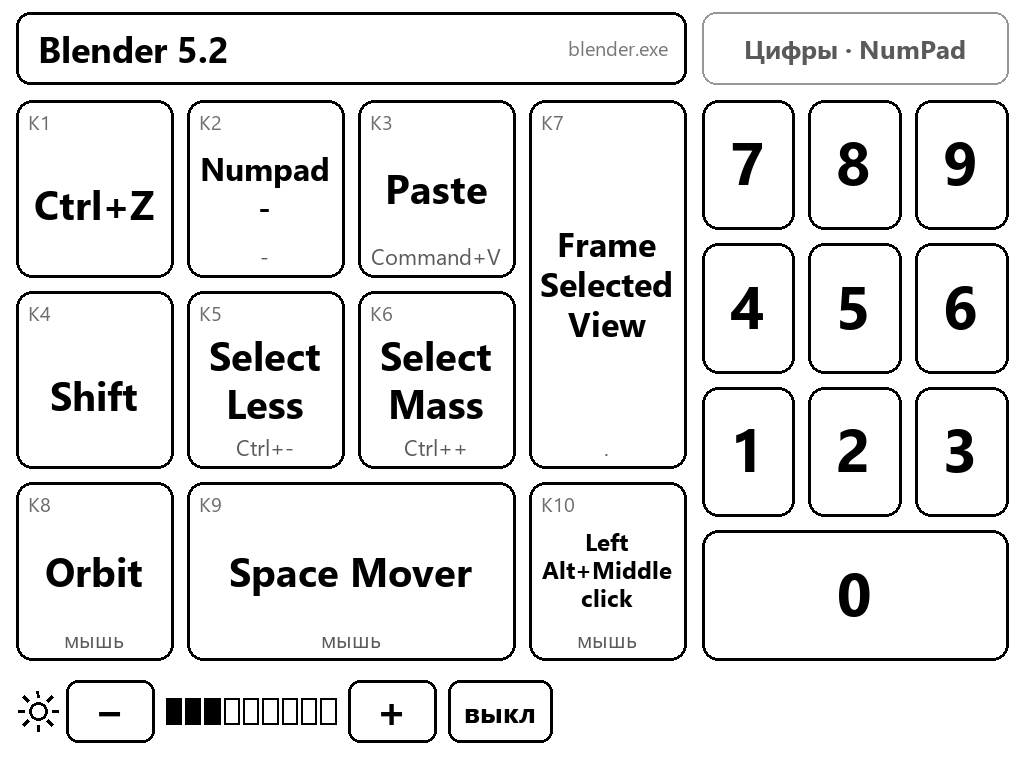
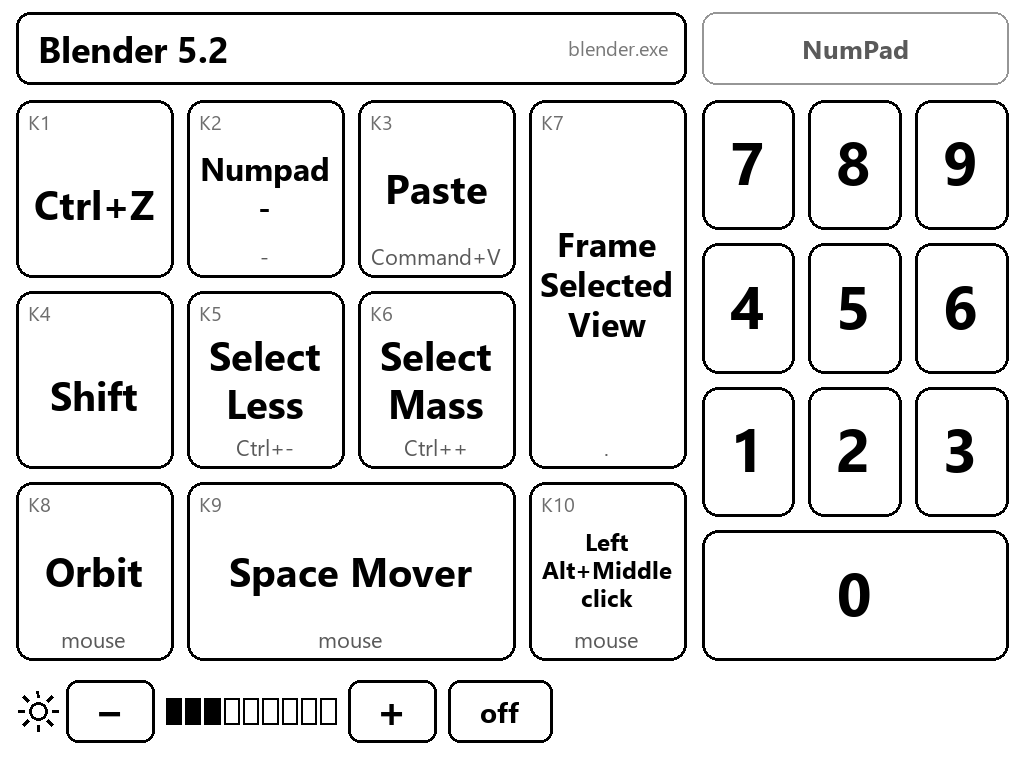
Translate the repository to English
README rewritten in English. On-screen labels are English too ("All apps",
"mouse", "driver function", "NumPad", "on"/"off"), as is the test image;
the README preview is regenerated.

diff --git a/xppen_kindle.py b/xppen_kindle.py
@@ -94,9 +94,9 @@ def _parse_key(node):
     if kind == "key":
         shortcut = _symbols(raw)
     elif kind == "mouse":
-        shortcut = "мышь"
+        shortcut = "mouse"
     elif kind == "func":
-        shortcut = "функция драйвера"
+        shortcut = "driver function"
     else:
         shortcut = "" if re.fullmatch(r"[\d+]*", raw) else _symbols(raw)
     return Key(kind, _symbols(label) if len(label) <= 2 else label, shortcut)
@@ -130,7 +130,7 @@ def load_profiles(path=CONFIG):
     dev = root.find("ACK05")
     if dev is None:
         raise SystemExit("ACK05 (Shortcut Remote) not found in " + path)
-    profiles = [_parse_app(dev.find("CommonAPP"), "Все программы", "")]
+    profiles = [_parse_app(dev.find("CommonAPP"), "All apps", "")]
     apps = dev.find("Apps")
     for app in (apps if apps is not None else []):
         exe = (app.findtext("path") or "").strip().lower()
@@ -279,7 +279,7 @@ def draw_sun(d, cx, cy, fill=0):
 
 
 def draw_light(d, hits, x, y, light):
-    """Frontlight control: sun, [−], level bar, [+], [выкл/вкл]. Returns right edge."""
+    """Frontlight control: sun, [−], level bar, [+], [off/on]. Returns right edge."""
     h = 62
     draw_sun(d, x + 22, y + h // 2)
     x += 50
@@ -300,7 +300,7 @@ def draw_light(d, hits, x, y, light):
     box = (x, y, x + 104, y + h)
     off = light == 0
     d.rounded_rectangle(box, radius=12, outline=0, width=3, fill=0 if off else 255)
-    d.text((x + 52, y + h // 2), "вкл" if off else "выкл", font=font(True, 28),
+    d.text((x + 52, y + h // 2), "on" if off else "off", font=font(True, 28),
            fill=255 if off else 0, anchor="mm")
     hits.append((box, ("light", "toggle")))
     return x + 104
@@ -321,7 +321,7 @@ def draw_keypad(d, hits, x0, y0, x1, y1, gap=14):
     """Our own on-screen keys (right column)."""
     box = (x0, 12, x1, 84)
     d.rounded_rectangle(box, radius=14, outline=150, width=2, fill=255)
-    d.text(((x0 + x1) // 2, 48), "Цифры · NumPad", font=font(True, 26), fill=90, anchor="mm")
+    d.text(((x0 + x1) // 2, 48), "NumPad", font=font(True, 26), fill=90, anchor="mm")
     cols, rows = 3, 4
     cw_ = (x1 - x0 - (cols - 1) * gap) / cols
     rh = (y1 - y0 - (rows - 1) * gap) / rows
@@ -633,7 +633,7 @@ def run_kindle():
     profiles, mtime = load_profiles(), os.path.getmtime(CONFIG)
     group, shown_key, hits, last_prof = 0, None, [], None
     online, next_check, deliberate = False, 0.0, False
-    light, light_on = load_state()          # light: index into LIGHT_STEPS; light_on: level for "вкл"
+    light, light_on = load_state()          # light: index into LIGHT_STEPS; light_on: level for "on"
     pending = ""                            # shell command to run with the next push (frontlight)
     try:
         while not deliberate:

diff --git a/test_screen.py b/test_screen.py
@@ -7,9 +7,9 @@ from PIL import Image, ImageDraw, ImageFont
 W, H = 758, 1024
 FONTS = "C:/Windows/Fonts/"
 
-MONTHS = ["января", "февраля", "марта", "апреля", "мая", "июня", "июля",
-          "августа", "сентября", "октября", "ноября", "декабря"]
-DAYS = ["понедельник", "вторник", "среда", "четверг", "пятница", "суббота", "воскресенье"]
+MONTHS = ["January", "February", "March", "April", "May", "June", "July",
+          "August", "September", "October", "November", "December"]
+DAYS = ["Monday", "Tuesday", "Wednesday", "Thursday", "Friday", "Saturday", "Sunday"]
 
 
 def font(name, size):
@@ -23,7 +23,7 @@ def main(out_path, battery="?"):
 
     # Time and date
     d.text((W // 2, 150), now.strftime("%H:%M"), font=font("segoeuib.ttf", 200), fill=0, anchor="mm")
-    d.text((W // 2, 300), f"{now.day} {MONTHS[now.month - 1]}, {DAYS[now.weekday()]}",
+    d.text((W // 2, 300), f"{DAYS[now.weekday()]}, {now.day} {MONTHS[now.month - 1]}",
            font=font("segoeui.ttf", 40), fill=0, anchor="mm")
 
     d.line((60, 370, W - 60, 370), fill=0, width=3)
@@ -31,9 +31,9 @@ def main(out_path, battery="?"):
     # Status block
     f = font("segoeui.ttf", 34)
     rows = [
-        ("Подключение", "USB · 192.168.15.244"),
-        ("Прошивка", "5.6.1.1 + jailbreak"),
-        ("Батарея", f"{battery}"),
+        ("Connection", "USB · 192.168.15.244"),
+        ("Firmware", "5.6.1.1 + jailbreak"),
+        ("Battery", f"{battery}"),
     ]
     y = 420
     for label, value in rows:
@@ -42,14 +42,14 @@ def main(out_path, battery="?"):
         y += 70
 
     # 16-level grayscale strip: checks that every shade renders
-    d.text((60, 680), "16 оттенков серого", font=font("segoeui.ttf", 28), fill=90)
+    d.text((60, 680), "16 shades of gray", font=font("segoeui.ttf", 28), fill=90)
     sw = (W - 120) / 16
     for i in range(16):
         x0 = 60 + i * sw
         d.rectangle((x0, 730, x0 + sw, 830), fill=i * 17)
     d.rectangle((60, 730, W - 60, 830), outline=0, width=2)
 
-    d.text((W // 2, 930), "Kindle как экран по USB — работает", font=font("segoeuib.ttf", 34), fill=0, anchor="mm")
+    d.text((W // 2, 930), "Kindle as a USB screen — it works", font=font("segoeuib.ttf", 34), fill=0, anchor="mm")
 
     img.save(out_path, optimize=True)
 

diff --git a/README.md b/README.md
@@ -1,136 +1,137 @@
 # inkondesk
 
-> **TL;DR (EN):** an old jailbroken **Kindle Paperwhite 1** turned into a USB e-ink side screen for the desk.
-> I use it as an **info display** next to my XP-Pen Shortcut Remote: it shows what the remote's keys do in the
-> active app, has touch buttons that press keys on the PC, and shows a screensaver when the PC is off.
-> The same setup can be adapted into a **Stream Deck–style touch hotkey pad**.
+An old jailbroken **Kindle Paperwhite 1** turned into a USB e-ink side screen for the desk.
+I use it as an **info display** next to my XP-Pen Shortcut Remote — and the same setup can be adapted
+into a **Stream Deck–style touch hotkey pad**.
 
-![Экран на Kindle: карта пульта XP-Pen слева, цифровой блок справа](assets/preview-map.png)
+![The Kindle screen: XP-Pen key map on the left, on-screen numpad on the right](assets/preview-map.png)
 
-## Что это
+## What it is
 
-Старый **Kindle Paperwhite 1** (2012, прошивка 5.6.1.1, джейлбрейк) подключён к ПК одним USB-кабелем и стоит
-на столе как постоянный e-ink экран. Я использую его как **инфо-дисплей** рядом с пультом
+An old **Kindle Paperwhite 1** (2012, firmware 5.6.1.1, jailbroken) is connected to the PC with a single USB cable
+and sits on the desk as a permanent e-ink screen. I use it as an **info display** next to the
 **XP-Pen Shortcut Remote (ACK05)**:
 
-- **слева** — подсказки, что делают клавиши K1–K10 пульта в программе, которая сейчас активна. Подписи берутся
-  прямо из настроек драйвера XP-Pen, профиль переключается сам по активному окну Windows (Blender, Krita, …) —
-  больше не надо лазить в меню драйвера;
-- **справа** — свои сенсорные кнопки, пока цифровой блок 0–9: тап по цифре → ПК нажимает клавишу NumPad
-  в активной программе (в Blender это виды 1/3/7, 5 — перспектива/орто);
-- **снизу** — подсветка `−` / `+` / `выкл`;
-- **ПК выключен или уснул** — через минуту на Kindle появляется заставка, подсветка гаснет; ПК вернулся —
-  экран возвращается сам.
+- **left** — what the remote's K1–K10 keys do in the app that is active right now. The labels are read straight
+  from the XP-Pen driver settings, and the profile follows the active Windows window (Blender, Krita, …) —
+  no more digging through the driver's menus;
+- **right** — my own touch buttons, for now a 0–9 numpad: tap a digit → the PC presses that NumPad key in the
+  active app (in Blender these are the 1/3/7 views, 5 toggles perspective/ortho);
+- **bottom** — frontlight `−` / `+` / `off`;
+- **PC off or asleep** — after a minute the Kindle shows a screensaver and turns the light off; when the PC is
+  back, the screen comes back by itself.
 
-E-ink для этого хорош: не светит в глаза, читается при любом свете, картинка держится даже без питания.
+E-ink is a good fit: it doesn't glare, reads well in any light, and the picture stays even without power.
 
-![Заставка, когда ПК выключен](assets/preview-screensaver.png)
+![Screensaver while the PC is off](assets/preview-screensaver.png)
 
-## Можно сделать свой Stream Deck
+## Make it your own Stream Deck
 
-Вся связка уже умеет главное, что нужно пульту с экранными кнопками: **нарисовать кнопки → поймать тап →
-выполнить действие на ПК**. Поэтому экран можно полностью переделать под **Stream Deck–подобное устройство**:
+The setup already does the core of a touch hotkey pad: **draw buttons → catch a tap → run an action on the PC**.
+So the screen can be turned completely into a **Stream Deck–like device**:
 
-- убрать карту XP-Pen и отдать весь экран 758×1024 под сетку своих кнопок (например 4×5 по ~180 px — палец
-  попадает с точностью ±30 px, так что кнопки от 120 px работают надёжно);
-- на каждую кнопку повесить что угодно: сочетание клавиш (`Ctrl+Shift+…`), строку текста, запуск программы,
-  скрипт, HTTP-запрос к Home Assistant — это просто Python на ПК;
-- держать разные наборы кнопок для разных программ — переключение по активному окну уже есть;
-- несколько страниц кнопок с листанием тапом.
+- drop the XP-Pen map and give the whole 758×1024 screen to a grid of your own buttons (e.g. 4×5 at ~180 px —
+  a finger lands within ±30 px, so buttons from 120 px up are reliable);
+- put anything on a button: a key combination (`Ctrl+Shift+…`), a string of text, launching an app, a script,
+  an HTTP request to Home Assistant — it's just Python on the PC;
+- keep different button sets per app — switching by the active window is already there;
+- several pages of buttons, flipped with a tap.
 
-Где это в коде (`xppen_kindle.py`):
+Where this lives in the code (`xppen_kindle.py`):
 
-| Что | Где |
+| What | Where |
 |---|---|
-| список экранных кнопок | `NUMPAD` (подпись + код клавиши) |
-| как кнопки рисуются и куда тапать | `draw_keypad()` → добавляет `hits` с действием `("key", vk, label)` |
-| что происходит по тапу | обработка `action[0] == "key"` в `run_kindle()` → `send_key(vk)` |
-| нажатие клавиши в Windows | `send_key()` — `SendInput`; для сочетаний — нажать модификаторы, клавишу, отпустить в обратном порядке |
-| раскладка экрана | `render()`, константы `MAP_X1`, `PAD_X0` |
+| list of on-screen buttons | `NUMPAD` (label + key code) |
+| how buttons are drawn and where to tap | `draw_keypad()` → adds `hits` with the action `("key", vk, label)` |
+| what happens on a tap | the `action[0] == "key"` branch in `run_kindle()` → `send_key(vk)` |
+| pressing a key in Windows | `send_key()` — `SendInput`; for combos press the modifiers, the key, then release in reverse order |
+| screen layout | `render()`, constants `MAP_X1`, `PAD_X0` |
 
-Чего e-ink не даст по сравнению со Stream Deck: цветных иконок (только 16 оттенков серого) и мгновенного
-отклика картинки (перерисовка ~0.3–1 с; само нажатие на ПК уходит сразу).
+What e-ink can't give you compared to a Stream Deck: colour icons (16 shades of gray only) and an instant visual
+response (a redraw takes ~0.3–1 s; the key press itself reaches the PC immediately).
 
-## Как устроено
+## How it works
 
 ```
- Windows ПК                                          Kindle Paperwhite 1 (Linux, джейлбрейк)
- ─────────                                           ──────────────────────────────────────
- xppen_kindle.py (pythonw, в фоне)                   USBNetwork: сеть по USB + SSH (dropbear)
-  • читает %APPDATA%\XPPen\config.xml   ── PNG ──▶   fbink рисует картинку на e-ink
-  • следит за активным окном            ◀─ тапы ──   cat /dev/input/event0 (тачскрин)
-  • рисует экран (Pillow, 1024×758)     ─ heartbeat▶ watchdog.sh: нет сигнала 60 с → заставка
-  • SendInput: клавиши в активное окно
+ Windows PC                                         Kindle Paperwhite 1 (Linux, jailbroken)
+ ──────────                                         ───────────────────────────────────────
+ xppen_kindle.py (pythonw, in the background)       USBNetwork: network over USB + SSH (dropbear)
+  • reads %APPDATA%\XPPen\config.xml   ── PNG ──▶    fbink draws the image on the e-ink panel
+  • watches the active window          ◀─ taps ──    cat /dev/input/event0 (touchscreen)
+  • renders the screen (Pillow)        ─ heartbeat ▶ watchdog.sh: no signal for 60 s → screensaver
+  • SendInput: keys into the active window
          192.168.15.201  ◀──── USB (RNDIS) ────▶  192.168.15.244
 ```
 
-- Kindle на время работы переводится в полноэкранный режим: выключаются его интерфейс (`framework`),
-  верхняя панель (`pillow`) и оконный менеджер (`awesome`), иначе они рисуют себя поверх и ловят тапы.
-- Программа переживает отключения: ждёт Kindle, после его перезагрузки снова забирает экран, ошибки пишет
-  в `xppen_kindle.log` и работает дальше; вторая копия сама закрывается.
-- Подсветка: `lipc-set-prop com.lab126.powerd flIntensity N`; на 0 powerd всё равно светит минимумом,
-  поэтому настоящее «выкл» пишется прямо в драйвер (`fl_intensity`).
+- While running, the Kindle is switched to full-screen mode: its own UI (`framework`), the top bar (`pillow`)
+  and the window manager (`awesome`) are stopped — otherwise they draw over the image and catch the taps.
+- The program survives disconnects: it waits for the Kindle, takes the screen back after a Kindle reboot, logs
+  errors to `xppen_kindle.log` and keeps running; a second copy exits by itself.
+- Frontlight: `lipc-set-prop com.lab126.powerd flIntensity N`; at 0 powerd still keeps the LEDs at the minimum,
+  so a real "off" is written straight to the driver (`fl_intensity`).
 
-## Как повторить
+## How to reproduce
 
-> ⚠ Джейлбрейк и откат прошивки — на свой страх и риск. Шаги ниже — для **Paperwhite 1 на 5.6.1.1**,
-> на других моделях и прошивках путь другой (см. [kindlemodding.org](https://kindlemodding.org/)).
+> ⚠ Jailbreaking and downgrading firmware are at your own risk. The steps below are for a
+> **Paperwhite 1 on 5.6.1.1**; other models and firmware versions need a different path
+> (see [kindlemodding.org](https://kindlemodding.org/)).
 
-1. **Джейлбрейк PW1 5.6.1.1:** откат на 5.3.3 официальным `update_kindle_5.3.3.bin` (скопировать в корень, не
-   отключая кабель держать кнопку питания до перезагрузки) → K5 jailbreak (`kindle-5.4-jailbreak.zip`,
-   «Обновить Kindle») → Universal Hotfix → обратно на 5.6.1.1 → снова «Run Hotfix».
-   Подробности: [MobileRead: downgrade PW1 5.6.1.1 → 5.3.3](https://www.mobileread.com/forums/showthread.php?t=264432).
-2. **KUAL + MRPI + USBNetwork** (пакеты от NiLuJe, [MobileRead snapshots](https://www.mobileread.com/forums/showthread.php?t=225030));
-   свой публичный SSH-ключ → `usbnet/etc/authorized_keys` (LF!); `usbnet/DISABLED_auto` → `usbnet/auto`
-   (сеть по USB сразу при загрузке).
-3. **DHCP на Kindle** (чтобы любой USB-порт работал без ручного IP): `kindle-scripts/udhcpd.conf` →
-   `usbnet/etc/`, применить `kindle-scripts/usbnetwork.patch` к `usbnet/bin/usbnetwork`.
-4. **Драйвер в Windows 11:** Kindle в режиме сети определяется как COM-порт. Нужен подписанный драйвер
-   «Acer Incorporated. – Other hardware – USB Ethernet/RNDIS Gadget» для `USB\VID_0525&PID_A4A2` из
+1. **Jailbreak PW1 5.6.1.1:** downgrade to 5.3.3 with the official `update_kindle_5.3.3.bin` (copy it to the root,
+   keep the cable plugged in and hold the power button until it restarts) → K5 jailbreak
+   (`kindle-5.4-jailbreak.zip`, "Update Your Kindle") → Universal Hotfix → back to 5.6.1.1 → "Run Hotfix" again.
+   Details: [MobileRead: downgrade PW1 5.6.1.1 → 5.3.3](https://www.mobileread.com/forums/showthread.php?t=264432).
+2. **KUAL + MRPI + USBNetwork** (packages by NiLuJe, [MobileRead snapshots](https://www.mobileread.com/forums/showthread.php?t=225030));
+   put your public SSH key into `usbnet/etc/authorized_keys` (LF line endings!); rename `usbnet/DISABLED_auto`
+   to `usbnet/auto` (network over USB right at boot).
+3. **DHCP on the Kindle** (so any USB port works without setting an IP by hand): copy `kindle-scripts/udhcpd.conf`
+   to `usbnet/etc/`, apply `kindle-scripts/usbnetwork.patch` to `usbnet/bin/usbnetwork`.
+4. **Windows 11 driver:** in network mode the Kindle shows up as a COM port. You need the signed driver
+   "Acer Incorporated. – Other hardware – USB Ethernet/RNDIS Gadget" for `USB\VID_0525&PID_A4A2` from the
    [Microsoft Update Catalog](https://www.catalog.update.microsoft.com/Search.aspx?q=USB%5CVID_0525%26PID_A4A2),
-   ставится `pnputil /add-driver RNDIS.inf /install` (от админа).
-5. **ПК:** Python 3 + Pillow; приватный ключ положить в `kindle-files/ssh/kindle_ed25519`
-   (`known_hosts` создастся рядом). Запуск — `kindle_start.cmd`, для автозапуска ярлык на него в `shell:startup`.
+   installed with `pnputil /add-driver RNDIS.inf /install` (as admin).
+5. **PC:** Python 3 + Pillow; put the private key at `kindle-files/ssh/kindle_ed25519`
+   (`known_hosts` is created next to it). Start with `kindle_start.cmd`; for autostart put a shortcut to it
+   into `shell:startup`.
 
-## Файлы
+## Files
 
-| Файл | Что это |
+| File | What it is |
 |---|---|
-| `xppen_kindle.py` | вся программа на ПК |
-| `kindle_start.cmd` / `kindle_stop.cmd` | запустить в фоне / остановить и вернуть Kindle обычный интерфейс |
-| `test_screen.py` | первая тестовая картинка (часы, статус, полоска 16 оттенков серого) |
-| `assets/badprompt.webp` | цветной логотип для заставки (ЧБ-версию собирает программа) |
-| `assets/preview-*.png` | картинки для этого README |
-| `kindle-scripts/watchdog.sh` | сторож заставки, ставится на Kindle в `/mnt/us/kindle-dash/` |
-| `kindle-scripts/dash_on.sh`, `dash_off.sh` | вручную включить / выключить полноэкранный режим Kindle |
-| `kindle-scripts/udhcpd.conf`, `usbnetwork.patch` | DHCP на Kindle: конфиг и патч к скрипту USBNetwork |
+| `xppen_kindle.py` | the whole PC program |
+| `kindle_start.cmd` / `kindle_stop.cmd` | start in the background / stop and give the Kindle its normal UI back |
+| `test_screen.py` | the first test image (clock, status, a 16-shade gray strip) |
+| `assets/badprompt.webp` | colour logo for the screensaver (the program builds the black-and-white version) |
+| `assets/preview-*.png` | images for this README |
+| `kindle-scripts/watchdog.sh` | screensaver watchdog, installed on the Kindle into `/mnt/us/kindle-dash/` |
+| `kindle-scripts/dash_on.sh`, `dash_off.sh` | manually switch the Kindle's full-screen mode on / off |
+| `kindle-scripts/udhcpd.conf`, `usbnetwork.patch` | DHCP on the Kindle: config and the patch to the USBNetwork script |
 
-## Запуск
+## Running
 
 ```bash
-kindle_start.cmd                      # в фоне, без окна
-kindle_stop.cmd                       # остановить, вернуть обычный Kindle
-python xppen_kindle.py                # в консоли для отладки (Ctrl+C)
-python xppen_kindle.py --preview out  # только отрендерить PNG всех профилей
+kindle_start.cmd                      # in the background, no window
+kindle_stop.cmd                       # stop, give the Kindle its normal UI back
+python xppen_kindle.py                # in a console for debugging (Ctrl+C)
+python xppen_kindle.py --preview out  # only render PNGs of every profile
 ```
 
-## Чего нет в репозитории
+## Not in the repository
 
-`kindle-files/` не коммитится: там скачанные прошивки, джейлбрейк, хотфикс, KUAL, MRPI, USBNetwork, драйвер
-(~500 МБ, всё можно скачать заново) и **приватный SSH-ключ**. Полные копии скрипта USBNetwork (код NiLuJe)
-тоже не коммитятся — только `usbnetwork.patch`.
+`kindle-files/` is not committed: it holds the downloaded firmware, jailbreak, hotfix, KUAL, MRPI, USBNetwork and
+driver (~500 MB, all re-downloadable) and the **private SSH key**. Full copies of the USBNetwork script
+(NiLuJe's code) are not committed either — only `usbnetwork.patch`.
 
-## Ограничения
+## Limitations
 
-- Только Windows (активное окно и `SendInput` через WinAPI); проверено на Kindle Paperwhite 1, FW 5.6.1.1.
-- Windows не даёт обычной программе нажимать клавиши в окнах, запущенных от администратора.
-- Если Kindle перезагрузится, пока ПК выключен, сторож заставки не запустится до включения ПК.
+- Windows only (active window and `SendInput` via WinAPI); tested on a Kindle Paperwhite 1, FW 5.6.1.1.
+- Windows doesn't let a normal program press keys in windows running as administrator.
+- If the Kindle reboots while the PC is off, the screensaver watchdog doesn't start until the PC is back.
 
-## Лицензия
+## License
 
-Код — [MIT](LICENSE).
+The code is [MIT](LICENSE).
 
-- Логотип **BadPrompt** (`assets/badprompt.webp` и картинка заставки, которая из него собирается) под лицензию
-  не попадает — это не код, а знак автора; для своей заставки подставьте свою картинку.
-- `kindle-scripts/usbnetwork.patch` меняет скрипт из USBNetwork от NiLuJe — на сам этот скрипт действуют условия
-  его автора.
+- The **BadPrompt** logo (`assets/badprompt.webp` and the screensaver image built from it) is not covered by the
+  license — it's the author's mark, not code; use your own picture for your screensaver.
+- `kindle-scripts/usbnetwork.patch` modifies a script from NiLuJe's USBNetwork — that script itself is under its
+  author's terms.
